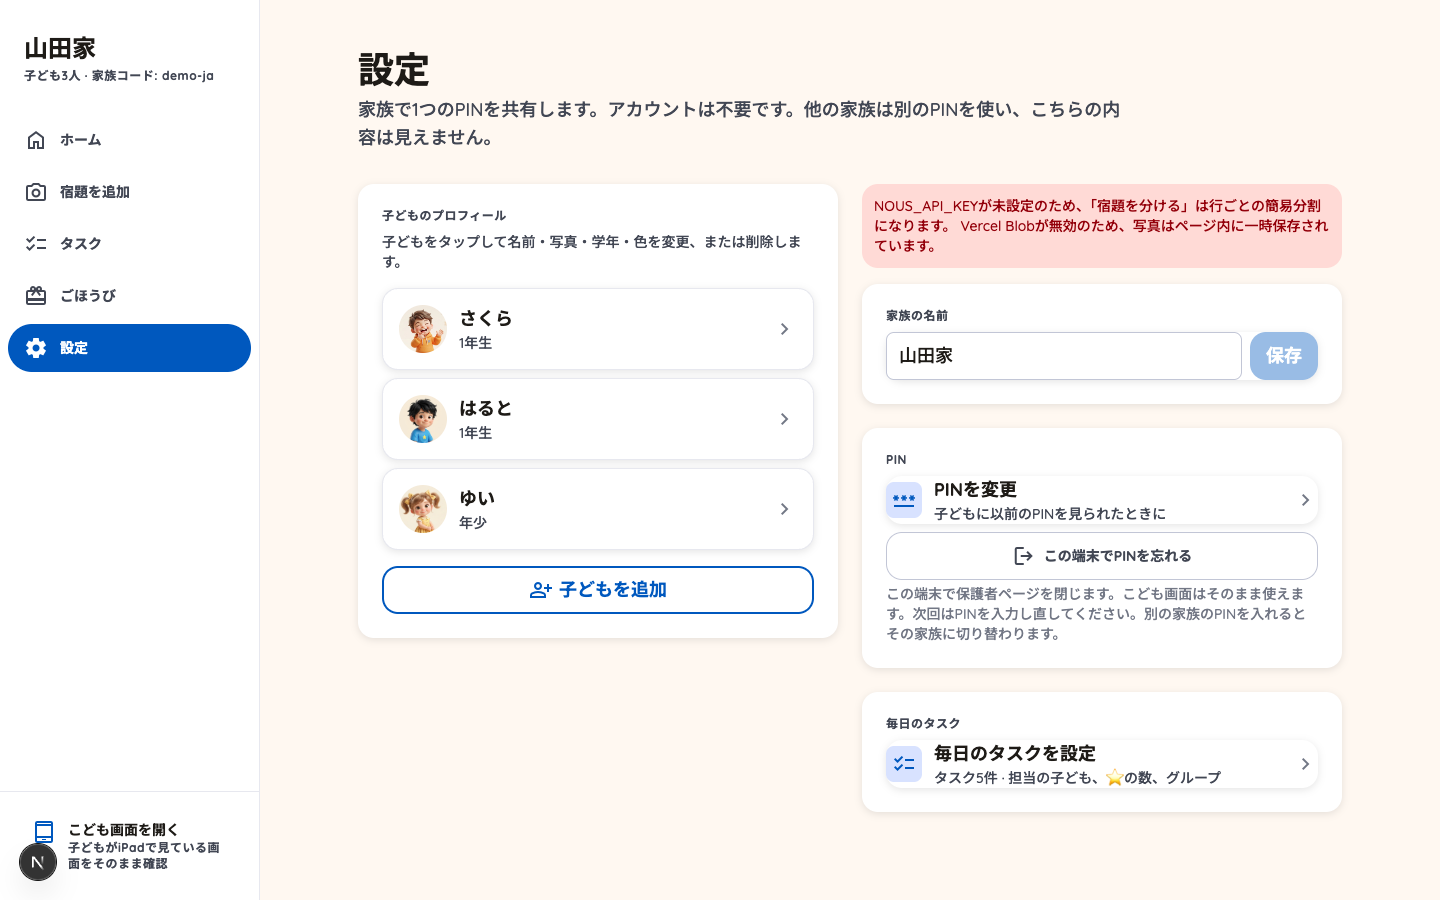
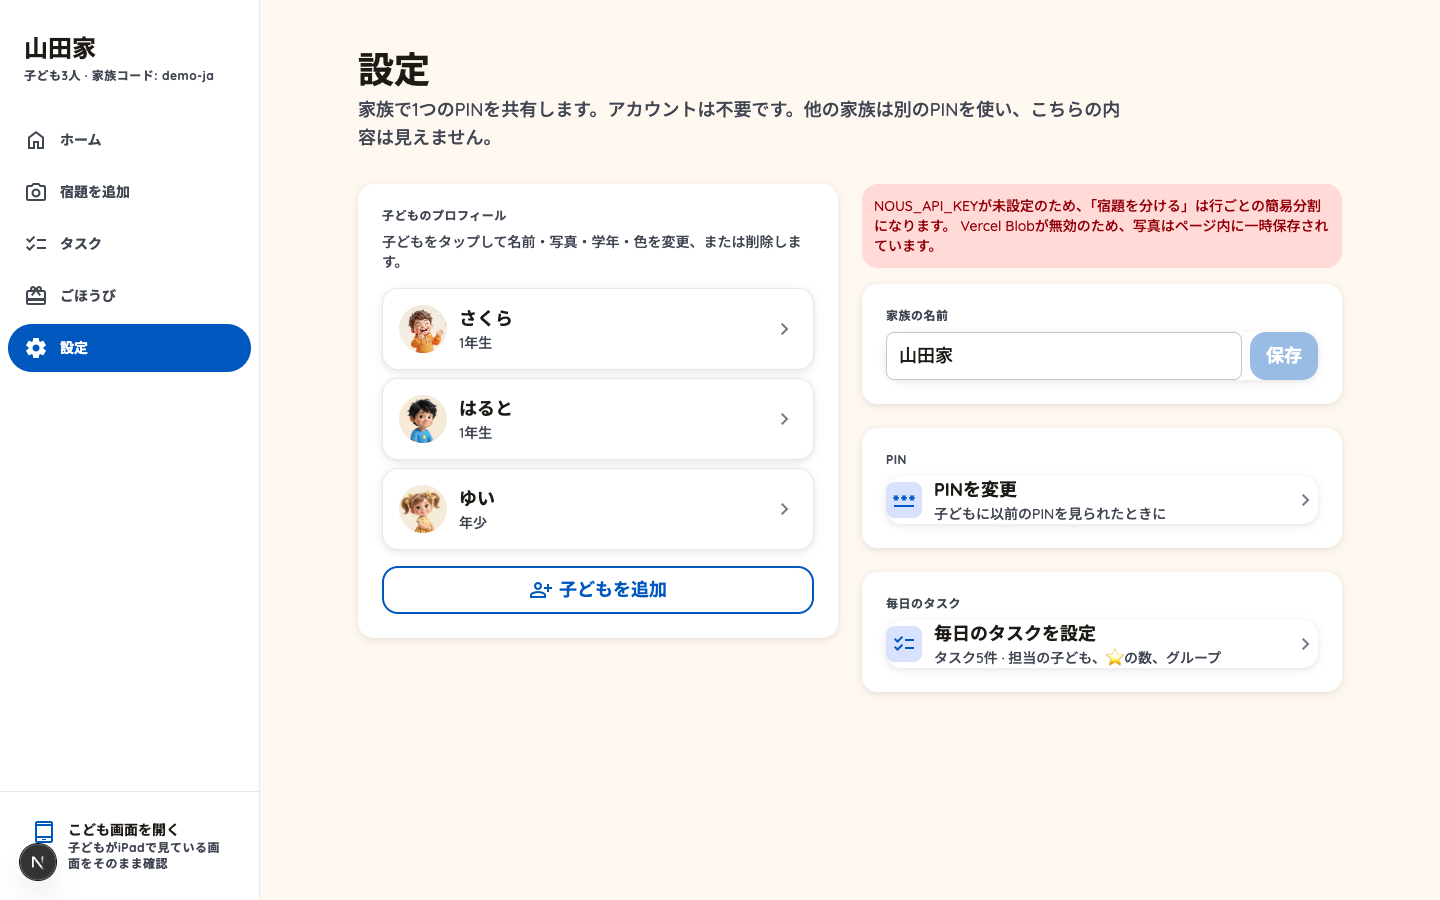
revert: gỡ nút "Quên PIN trên thiết bị này" lỡ thêm lại ở Cài đặt (captain đã cho bỏ ở #17); ghi ba link /nha/demo-* để đi demo (#46)
- Màn Cài đặt trở về đúng như trước c334475; DELETE /api/pin ở máy chủ giữ nguyên.
- Bỏ ba khoá dịch của nút, chụp lại ja-bome-cai-dat.png.
- HUONG-DAN-BO-ME + README: nhảy giữa các nhà bằng /nha/<slug>
  (/nha/demo-ja, /nha/demo-ko, /nha/demo-en), kèm lưu ý phiên bố mẹ đi theo PIN.

Changed region(s): [[0.5938, 0.6533, 0.9062, 0.8711], [0.5938, 0.5911, 0.9062, 0.6222]]

diff --git a/app/bome/(khung)/cai-dat/CaiDat.tsx b/app/bome/(khung)/cai-dat/CaiDat.tsx
@@ -59,18 +59,6 @@ export default function CaiDat({
   const [newPin, setNewPin] = useState('');
   const [newPin2, setNewPin2] = useState('');
   const [savingPin, setSavingPin] = useState(false);
-  const [dangQuen, setDangQuen] = useState(false);
-
-  async function quenPin() {
-    setDangQuen(true);
-    try {
-      await fetch('/api/pin', { method: 'DELETE' });
-      router.push('/bome/pin');
-      router.refresh();
-    } finally {
-      setDangQuen(false);
-    }
-  }
 
   async function doiPin() {
     setMsg('');
@@ -216,23 +204,6 @@ export default function CaiDat({
           </div>
         </div>
       )}
-
-      {/* Quen PIN tren may nay (DELETE /api/pin): dong phan bo me, giu "may nay la
-          cua nha nao" (lib/auth.ts signOut). Can cho hai viec: bo me trot tick
-          "Nho" tren iPad cua con, va captain demo doi nha bang cach NHAP PIN KHAC
-          (issue #46) — khong co nut nay thi phai dong trinh duyet. */}
-      <button
-        onClick={quenPin}
-        disabled={dangQuen}
-        className="w-full mt-2 min-h-p-tap rounded-card border border-outline-variant text-on-surface-variant
-                   text-p-body-sm font-bold flex items-center justify-center gap-2 disabled:opacity-60"
-      >
-        <span className="material-symbols-outlined text-xl">logout</span>
-        {dangQuen ? T('Đang đóng…') : T('Quên PIN trên thiết bị này')}
-      </button>
-      <p className="text-p-body-sm text-outline mt-1">
-        {T('Đóng phần bố mẹ trên máy này; màn của con vẫn mở như cũ. Lần sau nhập PIN lại — nhập PIN nhà khác thì sang nhà đó.')}
-      </p>
 
       </section>
 

diff --git a/lib/i18n/ja.ts b/lib/i18n/ja.ts
@@ -506,7 +506,4 @@ export const JA: Record<Key, string> = {
   'Tắt đèn học': '勉強机のライトを消す',
   'Soạn sách vở cho ngày mai': '明日の教科書をそろえる',
   'Việc nhà': 'おてつだい',
-  'Đang đóng…': '閉じています…',
-  'Quên PIN trên thiết bị này': 'この端末でPINを忘れる',
-  'Đóng phần bố mẹ trên máy này; màn của con vẫn mở như cũ. Lần sau nhập PIN lại — nhập PIN nhà khác thì sang nhà đó.': 'この端末で保護者ページを閉じます。こども画面はそのまま使えます。次回はPINを入力し直してください。別の家族のPINを入れるとその家族に切り替わります。',
 };

diff --git a/lib/i18n/en.ts b/lib/i18n/en.ts
@@ -530,10 +530,6 @@ export const EN = {
   'Tắt đèn học': 'Turn off the desk lamp',
   'Soạn sách vở cho ngày mai': "Pack books for tomorrow",
   'Việc nhà': 'Chores',
-  /* ---- Quen PIN tren may (Cai dat) ---- */
-  'Đang đóng…': 'Signing out…',
-  'Quên PIN trên thiết bị này': 'Forget PIN on this device',
-  'Đóng phần bố mẹ trên máy này; màn của con vẫn mở như cũ. Lần sau nhập PIN lại — nhập PIN nhà khác thì sang nhà đó.': "Signs out of the parents area on this device. The kids' screen keeps working. Next time enter a PIN again. A different family's PIN switches to that family.",
 } as const;
 
 export type Key = keyof typeof EN;

diff --git a/lib/i18n/ko.ts b/lib/i18n/ko.ts
@@ -506,7 +506,4 @@ export const KO: Record<Key, string> = {
   'Tắt đèn học': '공부방 불 끄기',
   'Soạn sách vở cho ngày mai': '내일 책 챙기기',
   'Việc nhà': '집안일',
-  'Đang đóng…': '닫는 중…',
-  'Quên PIN trên thiết bị này': '이 기기에서 PIN 잊기',
-  'Đóng phần bố mẹ trên máy này; màn của con vẫn mở như cũ. Lần sau nhập PIN lại — nhập PIN nhà khác thì sang nhà đó.': '이 기기에서 보호자 페이지를 닫습니다. 아이 화면은 그대로 사용할 수 있습니다. 다음에는 PIN을 다시 입력하세요. 다른 가족의 PIN을 입력하면 그 가족으로 바뀝니다.',
 };

diff --git a/HUONG-DAN-BO-ME.md b/HUONG-DAN-BO-ME.md
@@ -298,9 +298,15 @@ bình thường, không phải cài lại gì.
 
 **App hiện tiếng nước ngoài, không phải tiếng Việt?**
 Máy đang mở nhà mẫu (mã 1111 tiếng Nhật, 2222 tiếng Hàn, 3333 tiếng Anh). Chữ của
-app đi theo **nhà** chứ không theo máy: ở màn của bố mẹ vào **Cài đặt → "Quên PIN
-trên thiết bị này"** rồi nhập lại mã PIN của nhà mình là về tiếng Việt; ở máy của
-con thì mở lại link `/nha/<mã nhà>` của nhà mình (bố mẹ copy ở Cài đặt).
+app đi theo **nhà** chứ không theo máy. Mở lại link `/nha/<mã nhà>` của nhà mình
+(bố mẹ copy ở Cài đặt) là máy quay về nhà mình và tiếng Việt. Phần của bố mẹ thì đi
+theo mã PIN vừa nhập: đóng trình duyệt rồi mở lại, nhập PIN của nhà mình.
+
+**Muốn cho người khác xem app bằng tiếng Nhật / Hàn / Anh?**
+Mở một trong ba link `/nha/demo-ja` (tiếng Nhật), `/nha/demo-ko` (tiếng Hàn),
+`/nha/demo-en` (tiếng Anh) — mở link nào là máy sang nhà mẫu đó ngay, không phải
+nhập gì; muốn xem phần của bố mẹ thì nhập mã 1111 / 2222 / 3333. Nhảy giữa các nhà
+chỉ bằng cách mở link khác. Ba nhà này là dữ liệu mẫu, không phải nhà thật.
 
 **Xoá hết bài cũ đi được không?**
 Được. Vào **Nhiệm vụ → "Xoá tất cả bài tập và việc nhà"** — app hỏi lại hai nhịp

diff --git a/README.md b/README.md
@@ -78,6 +78,12 @@ lịch sử ⭐, một yêu cầu chờ duyệt, một lần bị trừ ⭐):
 | `2222` | 한국어 | `/nha/demo-ko` |
 | `3333` | English | `/nha/demo-en` |
 
+Nhảy giữa ba nhà demo (và về nhà thật) bằng cách mở link `/nha/<slug>` tương ứng:
+mở một lần là máy gắn sang nhà đó và vào thẳng màn chọn con, không phải nhập gì
+(`app/nha/[slug]/route.ts`). Lưu ý link chỉ đổi **cookie thiết bị**; phiên bố mẹ
+(`btvn_parent`, hết khi đóng trình duyệt nếu không tick "Nhớ") vẫn là nhà của PIN
+vừa nhập và được ưu tiên khi xác định nhà đang xem (`viewingFamilyId`).
+
 Ba mã PIN này **giữ chỗ vĩnh viễn** (`PIN_DEMO` trong `lib/i18n/ngonNgu.ts`):
 tạo nhà / đổi PIN trùng bị từ chối ngay. Nhà demo dùng PIN dễ đoán nên chỉ chứa
 dữ liệu mẫu, và `lib/nha-demo.test.ts` khẳng định không có đường nào từ nhà demo
